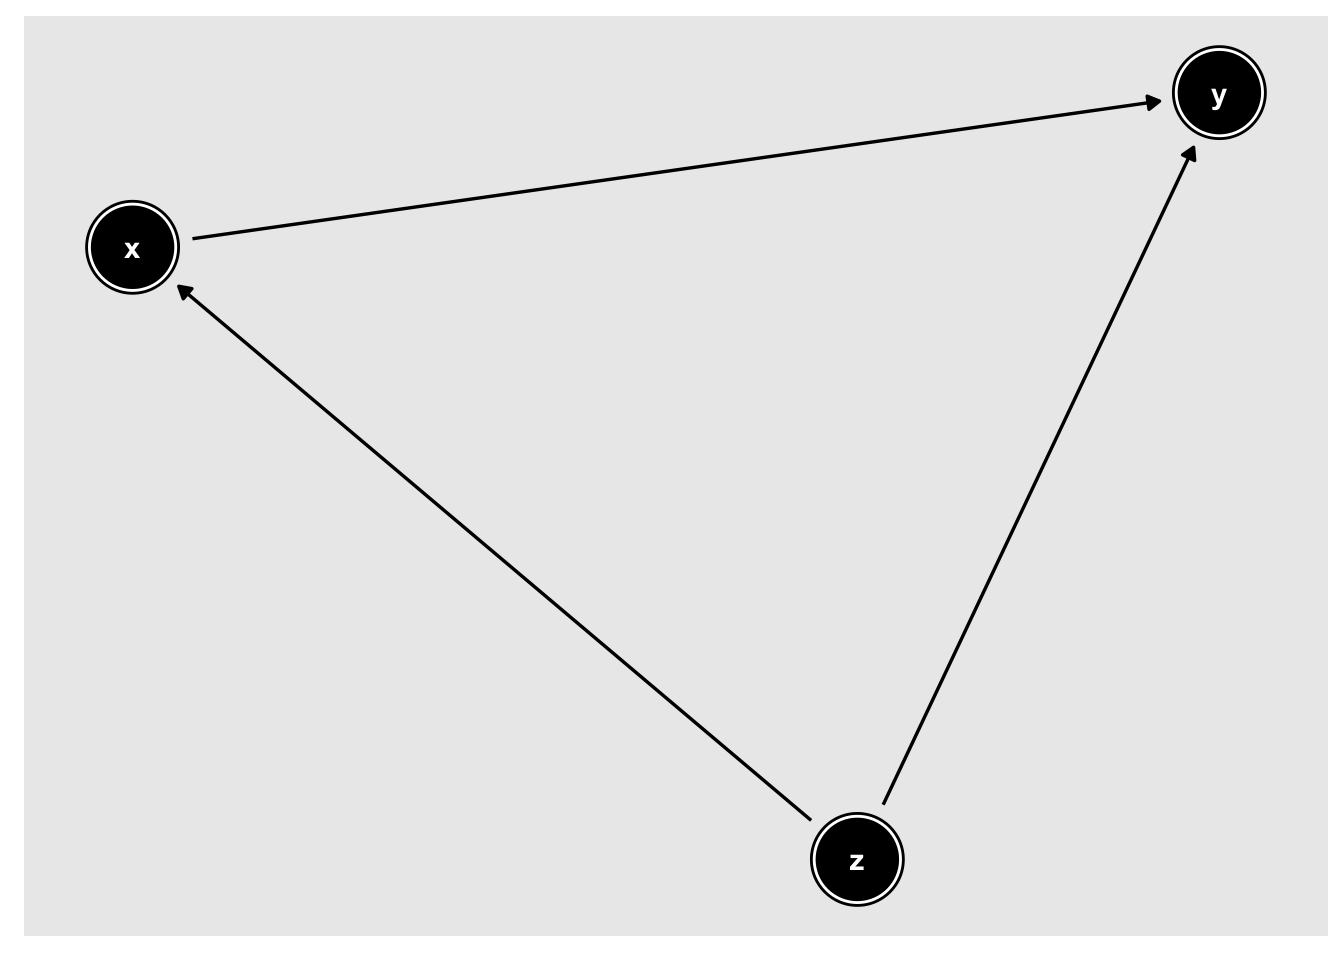
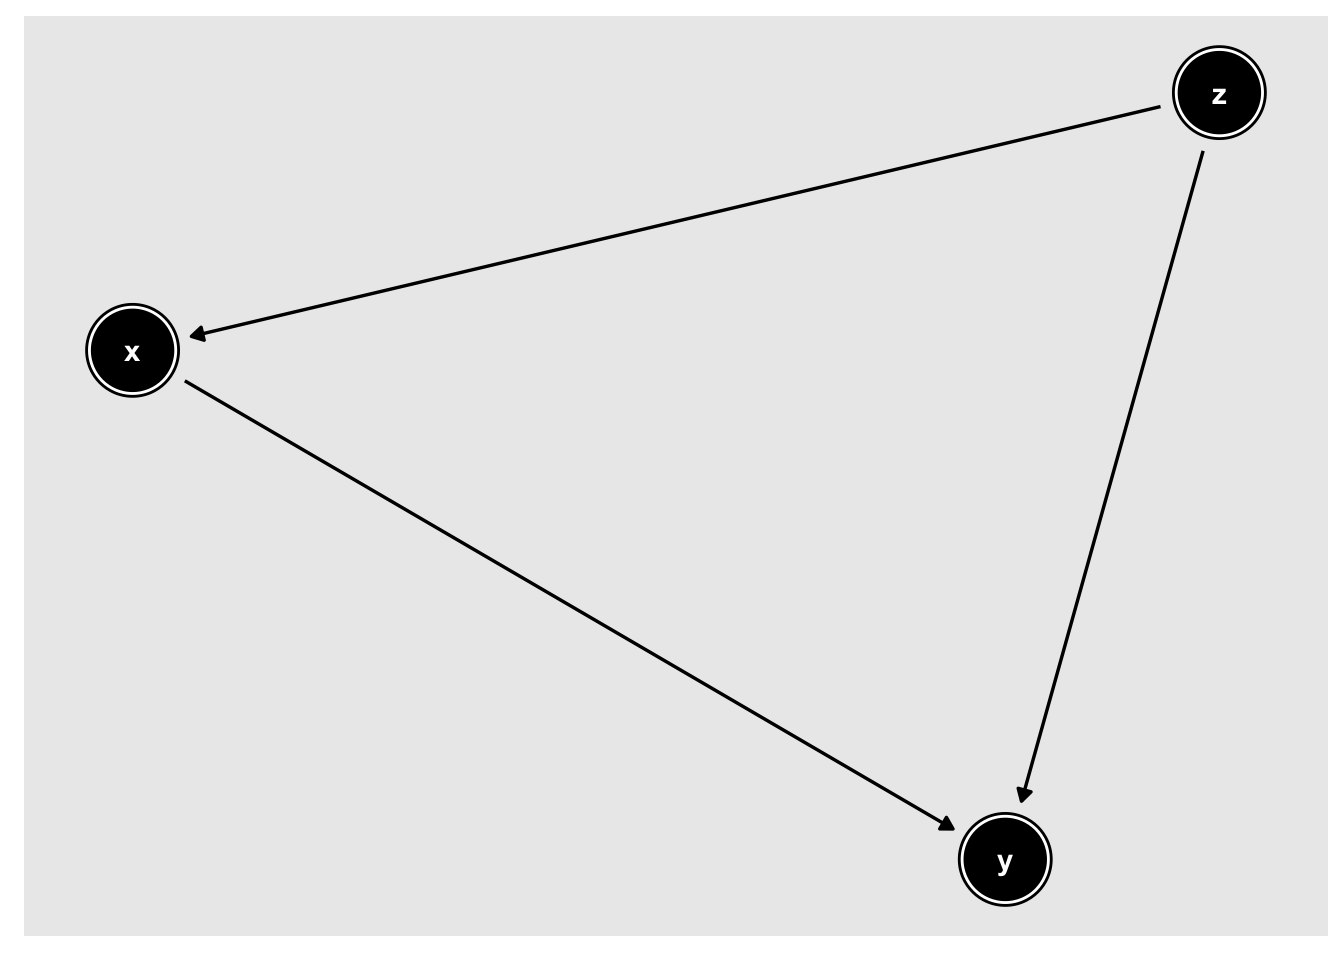
fix typo

diff --git a/content/post/2018-03-28-ggdag-0-1-0.html b/content/post/2018-03-28-ggdag-0-1-0.html
@@ -13,7 +13,7 @@ tags:
 
 
 
-<p>I’m pleased to announce the release of <code>ggdag</code> 0.1.0 in CRAN! <code>ggdag</code> uses the powerful <code>dagitty</code> package to create and analyze structural causal models and plot them using <code>ggplot2</code> and <code>ggraph</code> in a tidy, consistent, and easy manner. You can use <code>dagitty</code> objects directly in <code>ggdag</code>, but <code>ggdag</code> also includes wrappers to make DAGs using a more R-like syntax:</p>
+<p>I’m pleased to announce the release of <code>ggdag</code> 0.1.0 on CRAN! <code>ggdag</code> uses the powerful <code>dagitty</code> package to create and analyze structural causal models and plot them using <code>ggplot2</code> and <code>ggraph</code> in a tidy, consistent, and easy manner. You can use <code>dagitty</code> objects directly in <code>ggdag</code>, but <code>ggdag</code> also includes wrappers to make DAGs using a more R-like syntax:</p>
 <pre class="r"><code># install.packages(&quot;ggdag&quot;)
 library(ggdag)
 
@@ -25,10 +25,10 @@ dag</code></pre>
 <pre><code>## # A tibble: 4 x 8
 ##   name      x     y direction to     xend  yend circular
 ##   &lt;chr&gt; &lt;dbl&gt; &lt;dbl&gt; &lt;fct&gt;     &lt;chr&gt; &lt;dbl&gt; &lt;dbl&gt; &lt;lgl&gt;   
-## 1 x      3.00  3.57 -&gt;        y      3.98  3.76 FALSE   
-## 2 z      3.66  2.82 -&gt;        x      3.00  3.57 FALSE   
-## 3 z      3.66  2.82 -&gt;        y      3.98  3.76 FALSE   
-## 4 y      3.98  3.76 &lt;NA&gt;      &lt;NA&gt;  NA    NA    FALSE</code></pre>
+## 1 x      3.68  1.97 -&gt;        y      4.44  1.32 FALSE   
+## 2 z      4.62  2.30 -&gt;        x      3.68  1.97 FALSE   
+## 3 z      4.62  2.30 -&gt;        y      4.44  1.32 FALSE   
+## 4 y      4.44  1.32 &lt;NA&gt;      &lt;NA&gt;  NA    NA    FALSE</code></pre>
 <pre class="r"><code>ggdag(dag)</code></pre>
 <p><img src="/rmarkdown-libs/figure-html4/unnamed-chunk-1-1.png" width="672" /></p>
 <p>You can learn more about it on the <a href="https://ggdag.netlify.com/">ggdag website</a>, a <code>pkgdown</code> site that includes rendered documentation and the following vignettes:</p>
